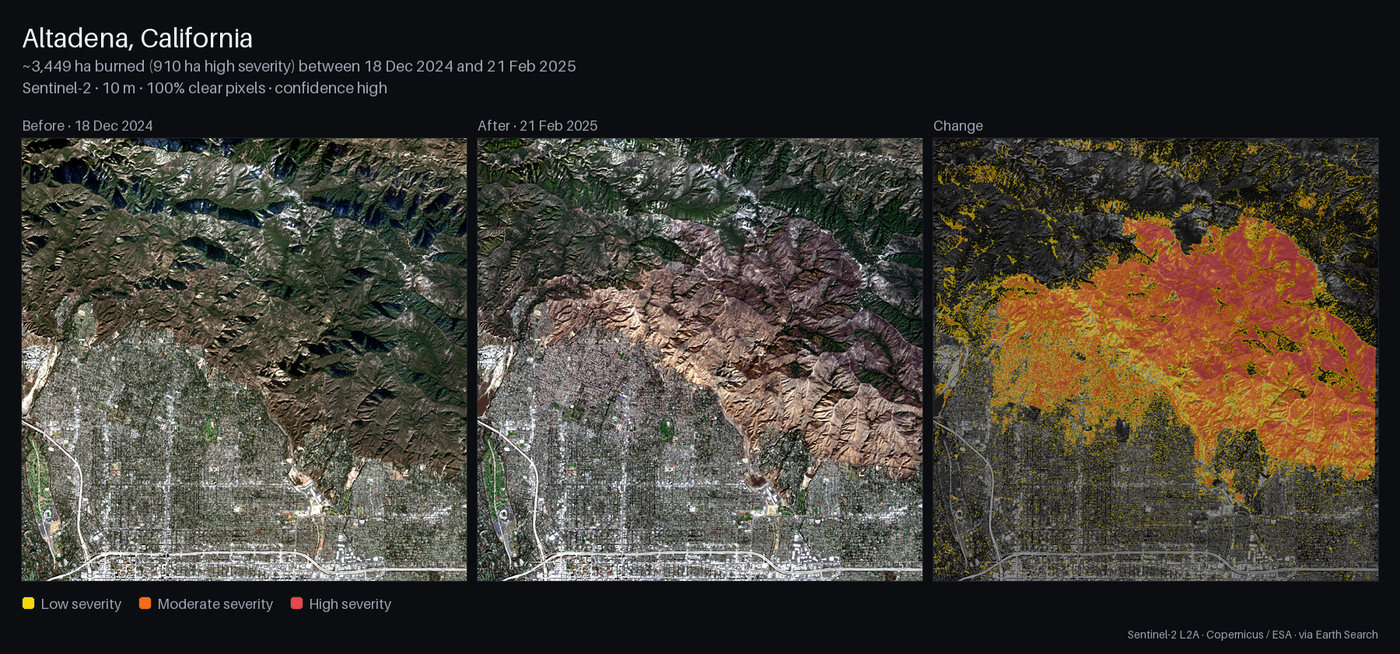
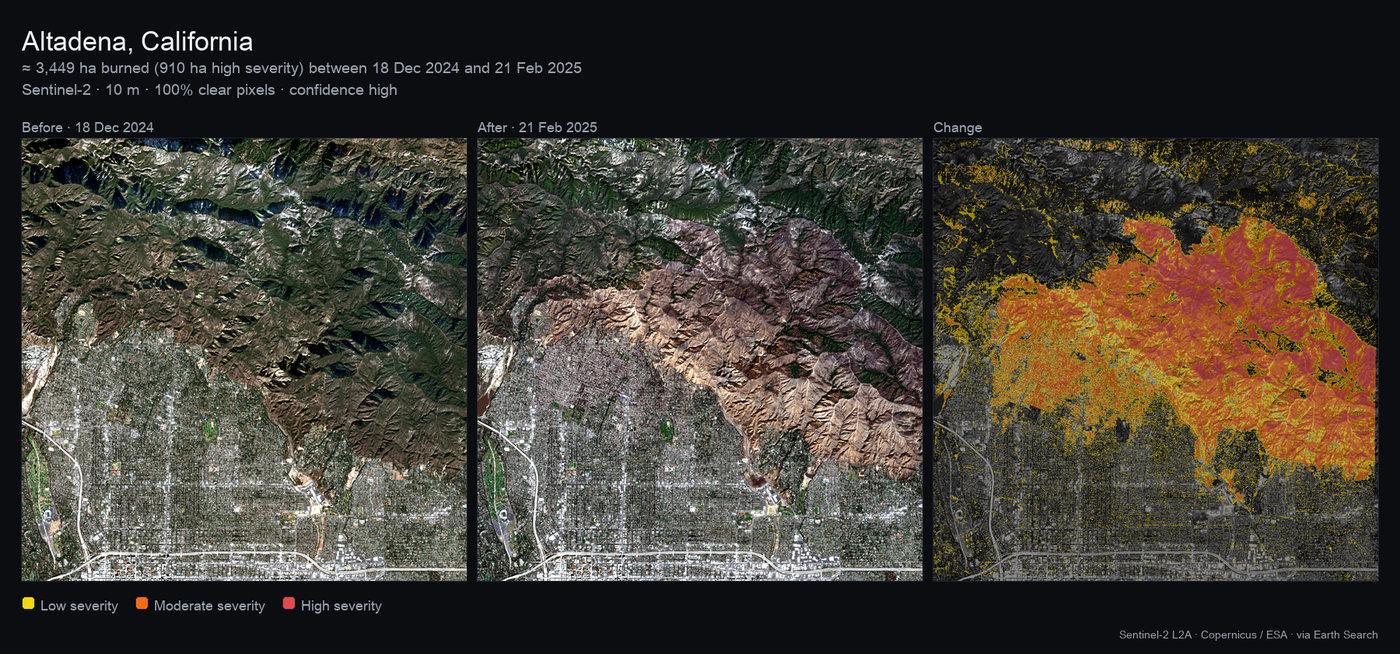
README and catalog accuracy fixes; demo images from the re-run
Disclosure now matches what is sent and cached, the Desktop card wording
names the builds that have the renderer, the method describes the real
scene selection, and the limits add coverage, first-run time and cache
size. The Novo Progresso and Altadena panels come from the 8 Nov re-run
(Unicode titles, "Pará" with its accent); places.md records the re-run.

diff --git a/README.md b/README.md
@@ -36,8 +36,8 @@ hermes gateway restart
 3. **Restart** Hermes so the tools and the Desktop backend route load.
 4. **Desktop card (optional).** In Hermes Desktop, go to **Capabilities → Plugins → Rescan**, then
    switch on Overhead's **Desktop** half. The card needs a current Desktop build that has the
-   tool-media renderer area: Hermes `main` (canary) or the first release after v2026.9.24
-   (0.22.5). Older builds still show the panel PNG and the GIF.
+   tool-media renderer area: a Desktop build from `main` after 24 Oct 2026 (canary), or the
+   first release after 0.22.5. Older builds still show the panel PNG and the GIF.
 
 Requires Hermes 0.22.5 or later. Once the catalog entry is merged, `hermes plugins install
 overhead` works too.
@@ -68,13 +68,14 @@ Times are from one Apple-silicon Mac on home broadband.
 ![Before, after and vegetation change panel near Novo Progresso, Pará, Brazil](assets/novo-progresso-vegetation.jpg)
 
 *Novo Progresso, Pará, Brazil, 31 Jul 2019 → 29 Jul 2025: ≈ 3,718 ha of vegetation lost (red)
-and 243 ha gained (green). The test run labelled it "Novo Progresso, Brazil".*
+and 243 ha gained (green).*
 
 ![Monthly timelapse of the Rio Negro at Manaus, July to November 2024](assets/manaus-water.gif)
 
 ![Water area per month at Manaus, June to December 2024](assets/manaus-water-chart.png)
 
-*Rio Negro at Manaus, 2024. June and December had no clear image and are left out. The hollow
+*Rio Negro at Manaus, 2024. June and December had no image at least 60% clear (the best were 57%
+and 55%), so they are left out. The hollow
 October point is affected by sun glint: the result flags it, and the headline leaves it out.*
 
 More ideas:
@@ -88,7 +89,9 @@ More ideas:
 Every tool takes a place in one of three ways: `place` (a name, looked up on OpenStreetMap);
 `lat` + `lon` + `radius_km` (a square, half-side 5 km by default, at most 100); or `geojson` (a
 Polygon, MultiPolygon, Feature or FeatureCollection). With coordinates or GeoJSON, `place` is only
-the title. Dates are `YYYY-MM-DD` or `YYYY-MM` (a month means its 15th), from 2017-03-28 to today.
+the title. Dates are `YYYY-MM-DD` or `YYYY-MM`, from 2017-03-28 to today. A month means the whole
+month as the `start` or `end` of a range (scenes, timelapse), and its 15th as a compare's `before` or
+`after`.
 
 | Tool | What it does | Key arguments | Returns |
 |---|---|---|---|
@@ -102,13 +105,14 @@ after, or the first and last frames), so it can describe what it sees.
 
 Errors never raise. They come back as `{"error": {"type": ..., "message": ...}}`, with a message
 that says what to do next: `bad_input`, `place_not_found`, `ambiguous_place` (up to 5 candidates),
-`area_too_large`, `no_clear_scene` (with the nearest clear dates), `network` or `internal`.
+`area_too_large`, `no_clear_scene` (from a compare, with the nearest clear dates), `network` or
+`internal`.
 
-**Hooks: `post_tool_call` and `transform_llm_output`.** Hermes delivers an image only when the reply
-carries its `MEDIA:<path>` line on a line of its own. `post_tool_call` records the panel or GIF
-that each compare or timelapse produced in the turn. `transform_llm_output` appends the line for any
-file the reply does not deliver, including one the model forgot or wrapped in code or quotes. The
-image arrives every time.
+**Hooks: `post_tool_call` and `transform_llm_output`.** Hermes delivers an image reliably when the
+reply carries its `MEDIA:<path>` line on a line of its own. `post_tool_call` records the panel or
+GIF that each compare or timelapse produced in the turn. `transform_llm_output` appends that line
+for any file the reply does not already carry that way, so the image arrives even when the model
+forgets the line or wraps it in code or quotes.
 
 **Skill: `overhead:earth-watch`.** It tells the model which tool fits the question, how to turn
 "January 2025" into dates, to report the headline and stats exactly as given, to state the
@@ -136,16 +140,18 @@ anything fails. The card is built from `src/` into `desktop/plugin.js` and impor
    cloud-optimised GeoTIFFs on [AWS Open Data](https://registry.opendata.aws/sentinel-2-l2a-cogs/)
    with HTTP range requests, so only the pixels over the area are downloaded.
 3. **Clouds.** The scene classification layer (SCL) masks nodata, defective pixels, cloud shadow,
-   cloud and cirrus. For each requested date Overhead takes the clearest scene within
-   ±`window_days`, preferring the closest one. If no single scene is at least 80% clear over the
-   area, it builds a per-pixel median composite of up to 3 scenes.
+   cloud and cirrus. For each requested date Overhead checks the six image dates nearest to it
+   within ±`window_days` (dates over 30% cloudy in the scene metadata go last). It takes the
+   nearest one that is at least 95% clear over the area, or failing that the clearest of them. If
+   that one is under 80% clear, it builds a per-pixel median composite of the three best.
 4. **Change.** Only pixels inside the area and clear on both dates count. Each class is a pixel
    count times the pixel area.
    - **Vegetation (NDVI).** Loss is NDVI_before ≥ 0.5 and ΔNDVI ≤ −0.25. Gain is the mirror:
      NDVI_after ≥ 0.5 and ΔNDVI ≥ +0.25.
    - **Burn severity (dNBR = NBR_before − NBR_after).** Classes follow Key & Benson: low 0.10–0.27,
-     moderate 0.27–0.66, high ≥ 0.66. "Burned" counts moderate and high. Low severity is reported
-     on its own (`burn.low_ha`), because it is often seasonal or urban noise.
+     moderate 0.27–0.66, high ≥ 0.66 ("moderate" merges their moderate-low and moderate-high
+     classes). "Burned" counts moderate and high. Low severity is reported on its own
+     (`burn.low_ha`), because it is often seasonal or urban noise.
    - **Water (MNDWI).** Water is MNDWI > 0, or a pixel the SCL classifies as water. Sun glint and
      smoke haze over water are detected (SWIR reflectance over SCL water above 0.10). The
      timelapse avoids those dates when it can, and both tools flag the ones they use.
@@ -157,7 +163,7 @@ anything fails. The card is built from `src/` into `desktop/plugin.js` and impor
 **Numbers are computed, not guessed.** Each result carries a one-line `headline` and ready-made
 totals (`burn.burned_ha`, `vegetation.net_ha`, `water.net_ha`). The tool descriptions and the skill
 tell the model to report them as given and never to add, subtract or recompute them. Each run's
-`result.json` also records the thresholds and the STAC items it used.
+`result.json` records the STAC items it used, and a compare's also records its thresholds.
 
 References:
 
@@ -175,8 +181,9 @@ References:
 - **10 m pixels.** Cars, cattle and single trees are invisible; a house is a few pixels. Large
   areas are coarser (see above).
 - **Seasonal cloud.** The Amazon wet season (December to May) and the monsoon can leave no clear
-  image for weeks. Overhead then returns `no_clear_scene` with the nearest clear dates rather than
-  a wrong answer. Use `overhead_scenes` or a wider `window_days`.
+  image for weeks. A compare then returns `no_clear_scene` with the nearest clear dates rather
+  than a wrong answer, and a timelapse leaves those periods out. Use `overhead_scenes` or a wider
+  `window_days`.
 - **NDVI is seasonal.** Summer against winter looks like vegetation loss. Compare the same season
   across years, for example July 2019 with July 2025.
 - **dNBR is built for vegetation.** It under-detects burned buildings in dense urban areas: in the
@@ -184,21 +191,25 @@ References:
   harvest, land clearing or snowmelt between the two dates can also look like a burn.
 - **Glint and haze over water.** Sunlight reflecting off water, or smoke, can hide it. Those dates
   are flagged, and the water area on them is likely an underestimate (October 2024 at Manaus).
-- **First run of a new area: about 30 to 70 s.** The imagery streams from AWS us-west-2. Repeat
-  runs take about 1 s from the cache.
-- **Data starts on 2017-03-28,** when Sentinel-2 L2A coverage begins. Future dates are refused.
-- **The cache is not pruned.** Image chunks pile up in the plugin's `cache/` folder (about 1 GB
-  after building the three demo scenes). Delete it whenever you like; it is rebuilt on demand.
+- **First run of a new area: about 40 to 70 s, sometimes longer.** The imagery streams from AWS
+  us-west-2. Repeat runs take about 1 s from the cache.
+- **Coverage.** Sentinel-2 images land and coastal waters from about 56° S to 84° N. The open
+  ocean and the far south have little or no imagery.
+- **Dates.** The tools accept dates from 2017-03-28 to today.
+- **The cache is not pruned.** Image chunks pile up in the plugin's `cache/` folder: a few hundred
+  MB for the three demo scenes, and large areas add more. Delete it whenever you like; it is
+  rebuilt on demand.
 
 ## Disclosure
 
 Overhead makes these network calls and no others:
 
 - **Earth Search STAC API by Element 84**, `https://earth-search.aws.element84.com/v1`: searches
-  for `sentinel-2-l2a` scenes by the area's bounding box and the date range. Answers are cached.
+  for `sentinel-2-l2a` scenes by the area's bounding box (never its exact outline) and the date
+  range, with the User-Agent below. Answers are cached when the range ends before today.
 - **Sentinel-2 COGs on AWS Open Data**, the `sentinel-cogs` bucket in `us-west-2`
   (`https://sentinel-cogs.s3.us-west-2.amazonaws.com/...`): unsigned HTTPS range reads of the image
-  bands. Cached.
+  bands, without credentials (`~/.netrc` is never read). The pixels read are cached.
 - **Nominatim / OpenStreetMap**, `https://nominatim.openstreetmap.org/search`: only when you give a
   place name. It sends the name with the User-Agent
   `overhead-hermes-plugin/0.1.0 (+https://github.com/leoresendedop-sys/overhead)`, at most 1
@@ -206,9 +217,9 @@ Overhead makes these network calls and no others:
 - **Optional:** the Desktop card's **Open map** button opens `https://www.openstreetmap.org/` at the
   area's bounding box in your browser, and only when you click it.
 
-Nothing else is sent anywhere. There are no API keys, no accounts and no telemetry. Your
-conversation never leaves Hermes; these services see only the area, the dates and, for a name
-lookup, the place name.
+Nothing else is sent anywhere. There are no API keys, no accounts and no telemetry. Overhead
+sends nothing from your conversation: these services see only the area's bounding box, the dates
+and, for a name lookup, the place name.
 
 On disk, Overhead writes only to Hermes's plugin data folder, `<HERMES_HOME>/plugin-data/overhead/`
 (`~/.hermes/plugin-data/overhead/` by default). `cache/` holds the STAC answers, geocodes and image

diff --git a/demo/places.md b/demo/places.md
@@ -14,6 +14,10 @@ Cold times are network-bound, not code-bound (spec targets: 30 s for a compare, 
 Timings below are from one Apple-silicon Mac on home broadband. The live tests print the same
 numbers with `-s`.
 
+Re-run on 8 Nov 2026, after the STAC search switched from the area's polygon to its bounding box
+and range months started covering the whole month: the same dates and headlines for all three
+scenes, warm 0.3 s, 0.6 s and 1.3 s. The cold times below are from the first measurement.
+
 ## 1. Eaton fire, Altadena, California (burn)
 
 **Prompt**
@@ -66,8 +70,9 @@ gives the town and the cleared pasture around it. The label keeps its accent: pa
 **Expected call:** `overhead_timelapse`
 `{"place": "Manaus, Brazil", "lat": -3.1, "lon": -60.2, "radius_km": 15, "start": "2024-06", "end": "2024-12", "step": "month", "metric": "water"}`
 
-**Frames used:** 8 Jul, 7 Aug, 1 Sep, 11 Oct and 30 Nov 2024 (June and December have no clear image
-and are left out). Resolution 20 m.
+**Frames used:** 8 Jul, 7 Aug, 1 Sep, 11 Oct and 30 Nov 2024. Resolution 20 m. `start` and `end`
+months cover the whole month, but the best June date is 57% clear (13 Jun) and the best December
+date 55% (5 Dec), under the timelapse's 60% bar, so those two periods are left out.
 **Headline:** water area ranged from 14,342 ha (Nov 2024) to 22,165 ha (Jul 2024) over 7 months. The October point (7,493 ha) is sun-glint affected, so the headline skips it; the chart draws it as a hollow marker and the notes say it is likely underestimated.
 **Files:** `timelapse.gif`, `chart.png`, `frames/000.jpg` ... `frames/004.jpg`.
 **Timing:** cold 55 s, warm 1.3 s.
